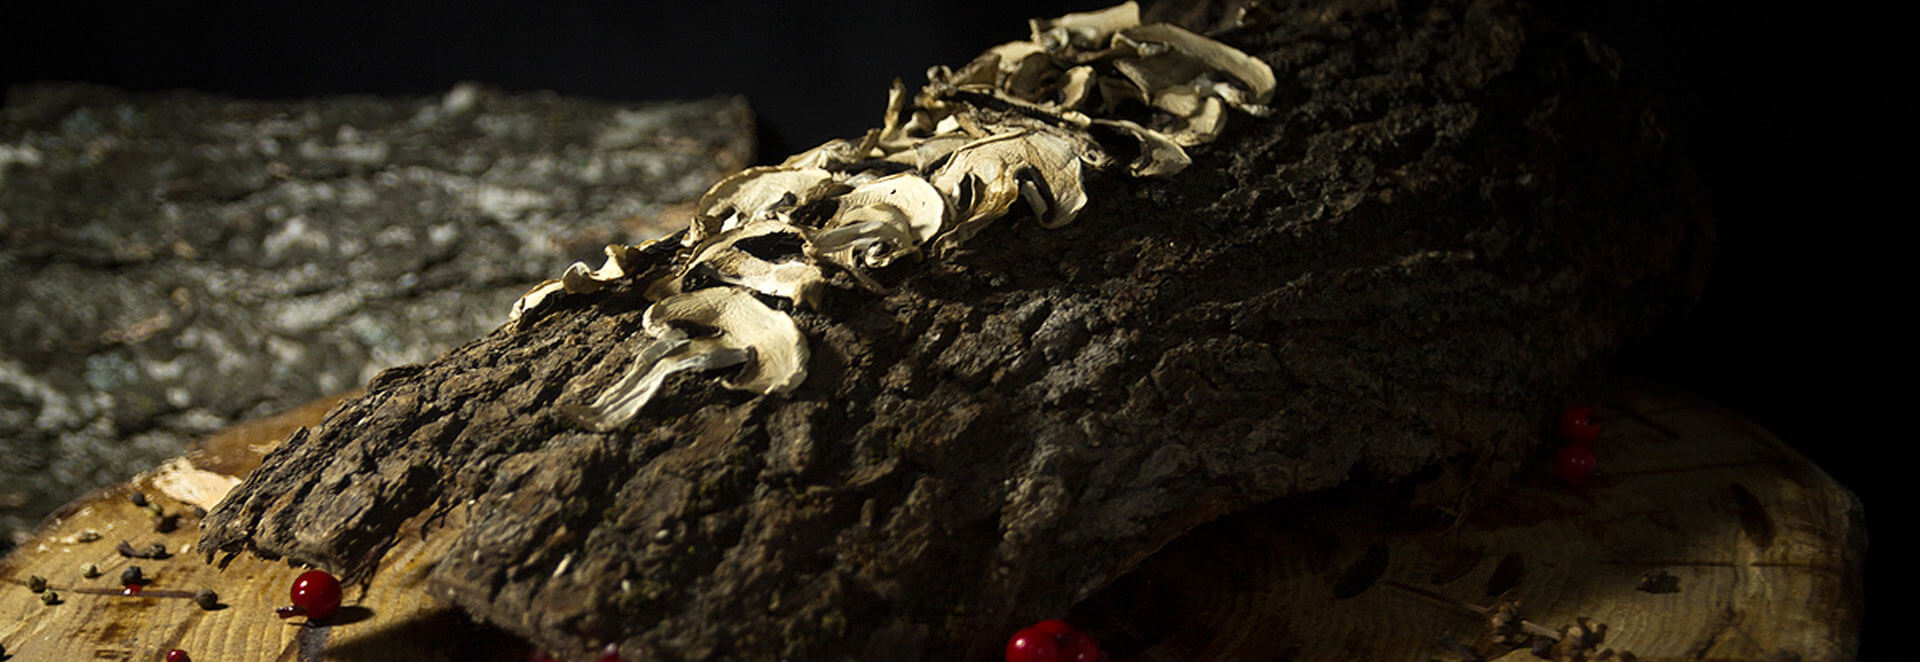
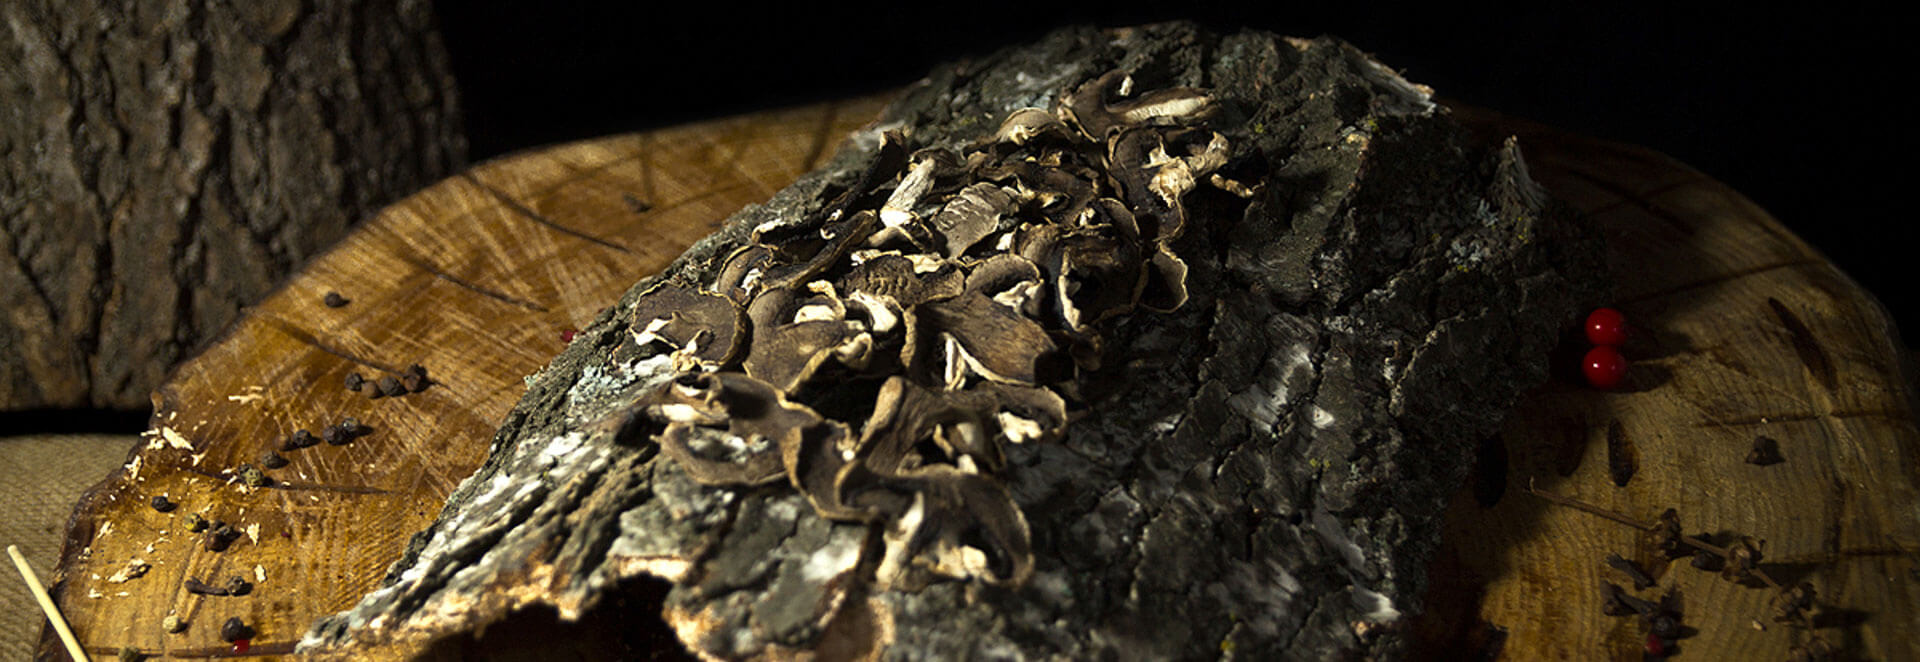
Грибы русская ветка тексты, картинки

diff --git a/_products/ru/dried_mushrooms/mushroom_chips_champignons.md b/_products/ru/dried_mushrooms/mushroom_chips_champignons.md
@@ -1,12 +1,12 @@
 ---
 pub: "yes"
 title: mushroom_chips_champignons
-title_small: Грибы шампиньоны сушеные
+title_small: Чипсы грибные «Шампиньоны»
 lang: "ru"
-meta_description: "Нашими сотрудниками разработана специальная технология, которая позволяет получить хрустящие чипсы."
+meta_description: "Наш продукт используют как полноценную замену свежим грибам."
 categorie: dried_mushrooms
 
-title_text: "Нашими сотрудниками разработана специальная технология, которая позволяет получить хрустящие чипсы."
+title_text: "Наш продукт используют как полноценную замену свежим грибам."
 
 layout: products_in_ru
 popular: "no"
